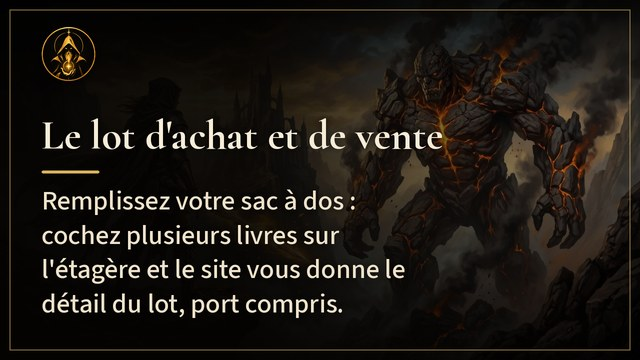
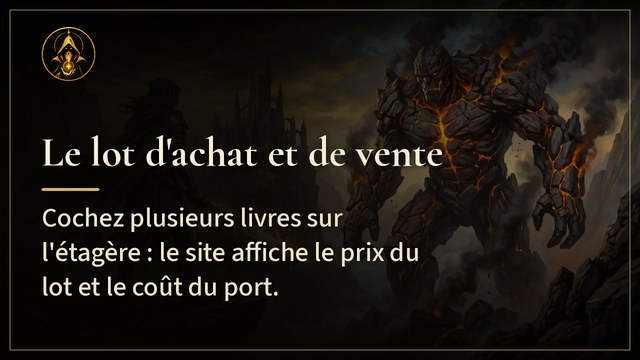
Images des nouvelles : phrases claires et factuelles
Claude-Session: https://claude.ai/code/session_01HTe4GG8zQBr2ycdCYNMDrp

Changed region(s): [[0.0625, 0.5194, 0.6562, 0.8861], [0.0625, 0.3361, 0.6875, 0.4889]]

diff --git a/web/communaute.html b/web/communaute.html
@@ -104,7 +104,7 @@
     <h2 id="nouv-titre-dialogue">Créer une nouvelle</h2>
     <p class="sous">La page, les images, la carte de la Communauté et le flux RSS sont faits tout seuls. Make publie ensuite sur Facebook.</p>
     <div class="champ"><label for="nouv-titre">Titre (écrit en grand sur l'image)</label><input type="text" id="nouv-titre" required maxlength="80" autocomplete="off"></div>
-    <div class="champ"><label for="nouv-phrase">Phrase de l'image (une phrase naturelle, dans l'esprit des livres dont vous êtes le héros)</label><input type="text" id="nouv-phrase" required maxlength="140" autocomplete="off"></div>
+    <div class="champ"><label for="nouv-phrase">Phrase de l'image (une phrase claire et factuelle)</label><input type="text" id="nouv-phrase" required maxlength="140" autocomplete="off"></div>
     <div class="champ"><label for="nouv-texte">Texte de l'article</label><textarea id="nouv-texte" required rows="9" maxlength="8000"></textarea>
       <p class="sous">Paragraphes séparés par une ligne vide. « ## Titre » pour une section, « - » pour une puce, « 1. » pour une étape, **gras**, [texte](adresse).</p></div>
     <div class="champ"><label for="nouv-facebook">Texte de la publication Facebook (facultatif)</label><textarea id="nouv-facebook" rows="5" maxlength="3000"></textarea></div>
